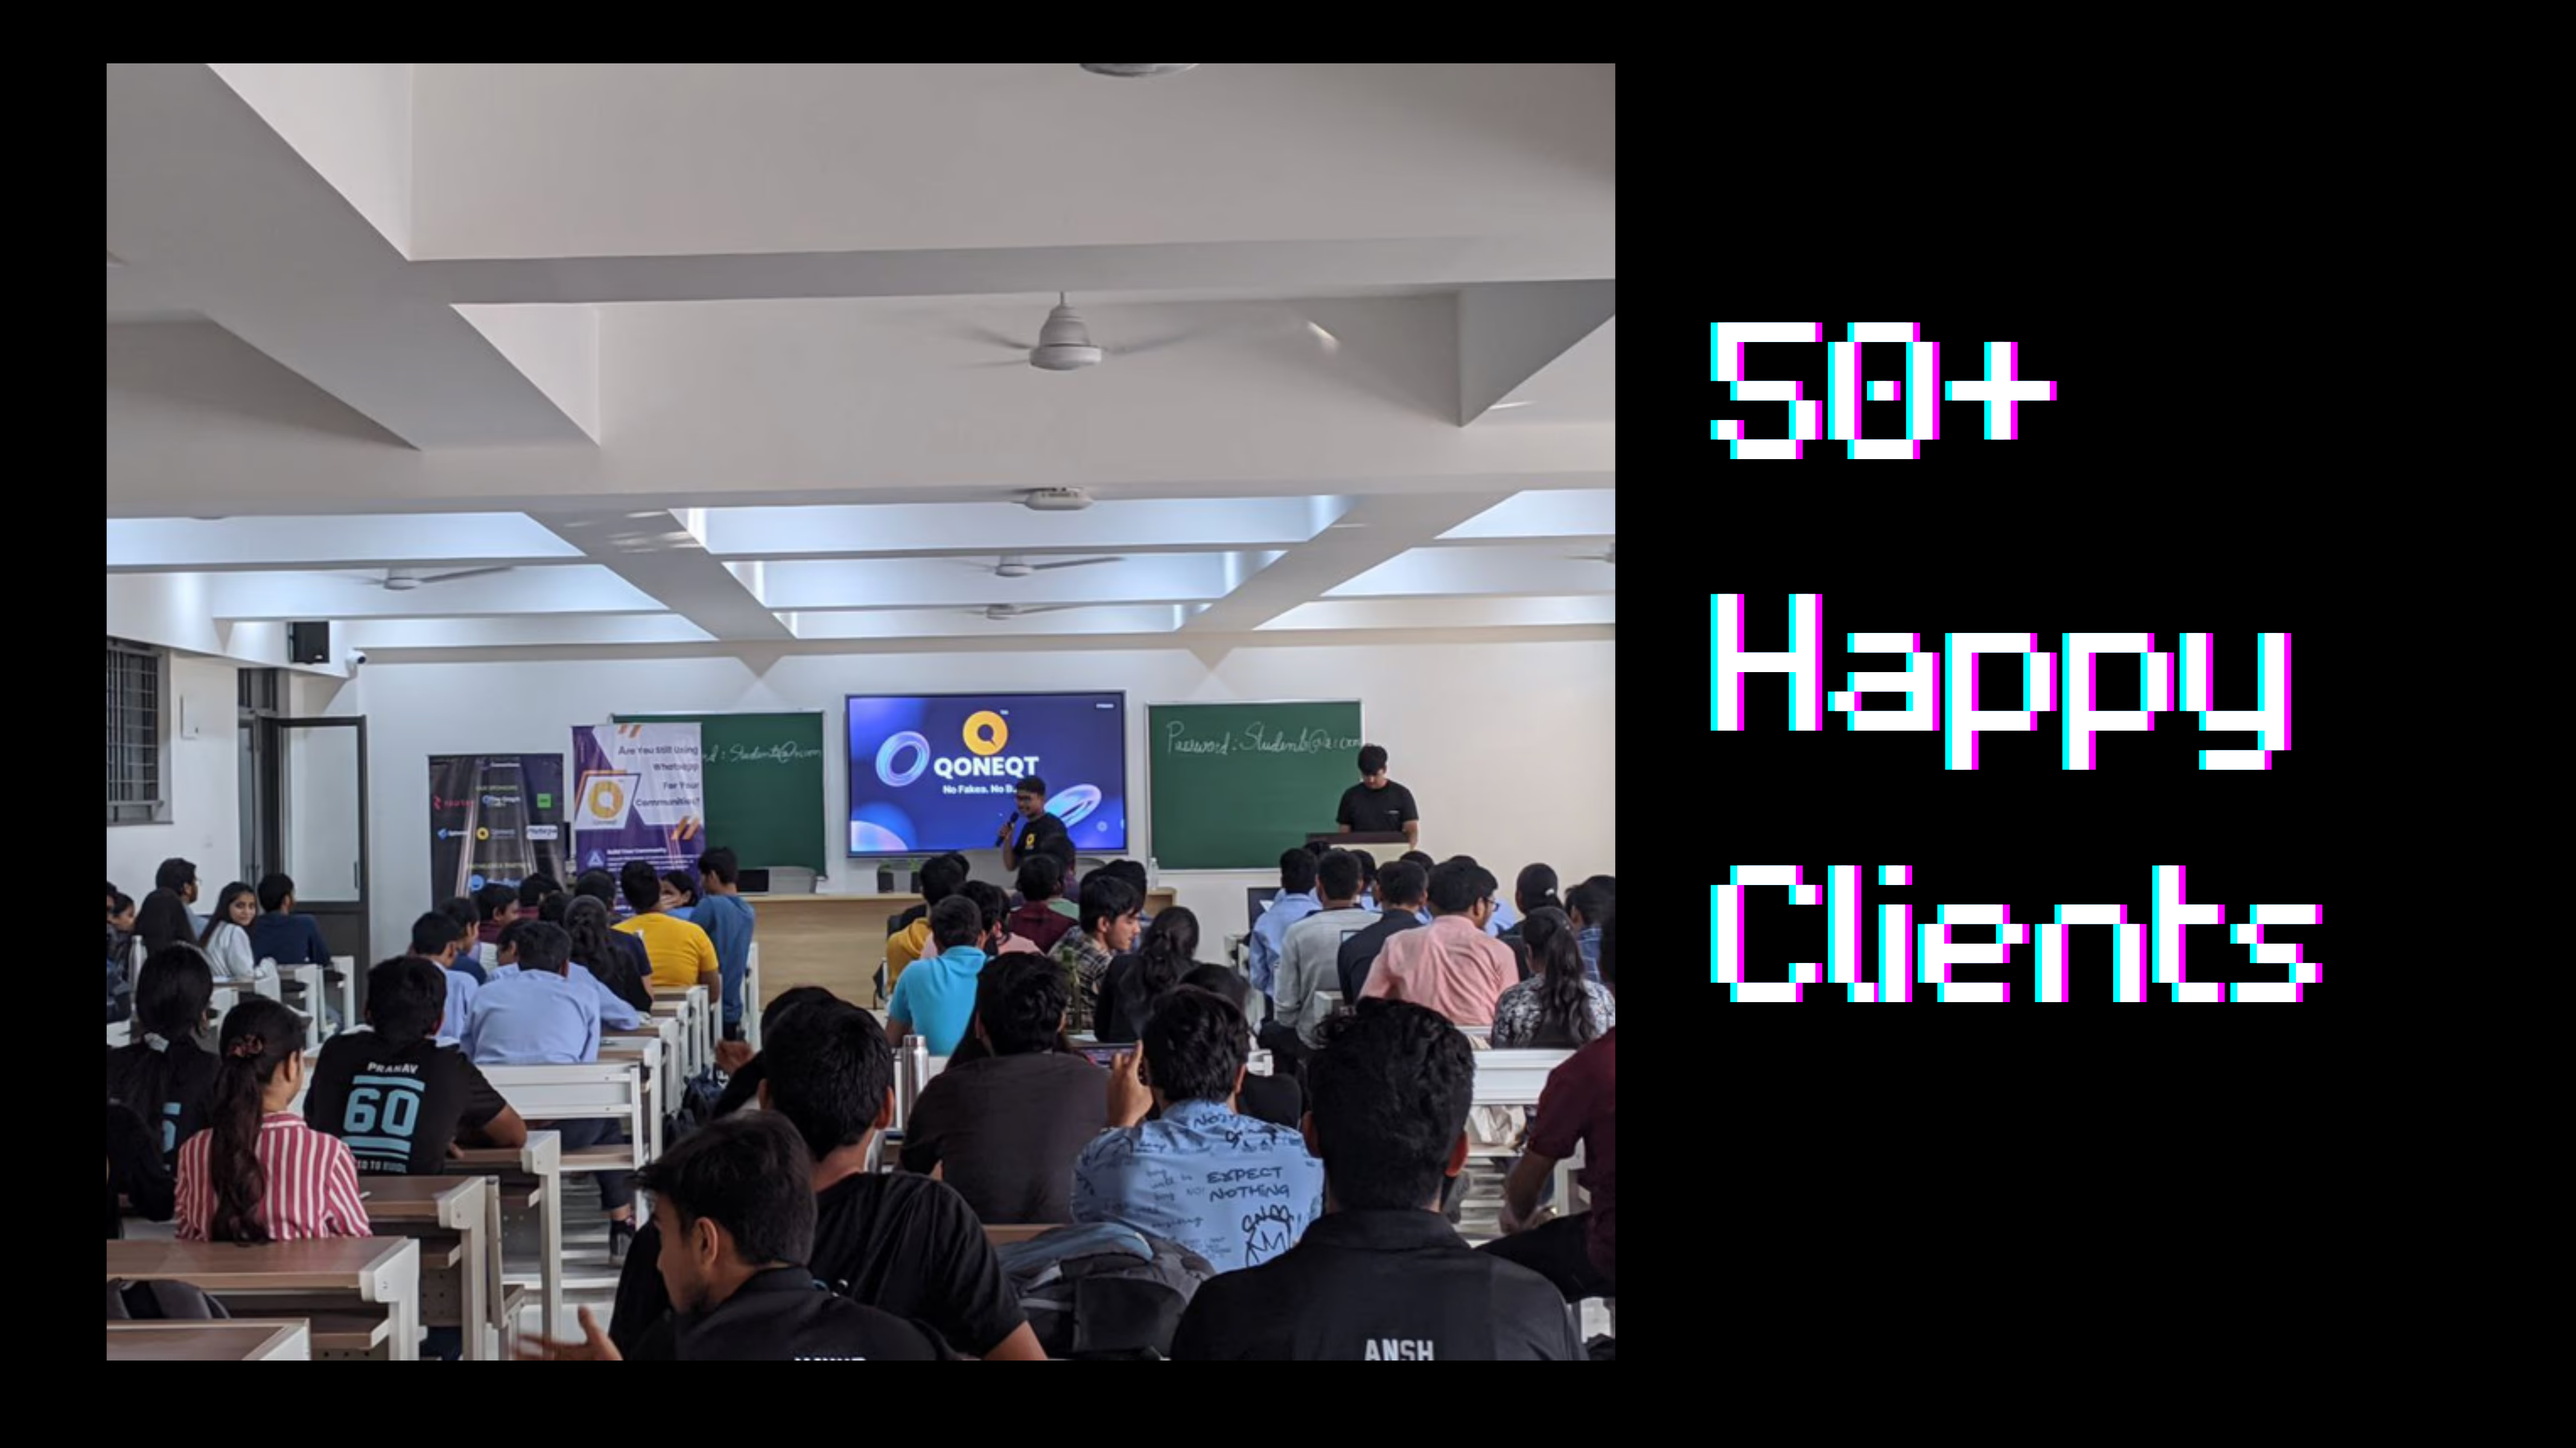
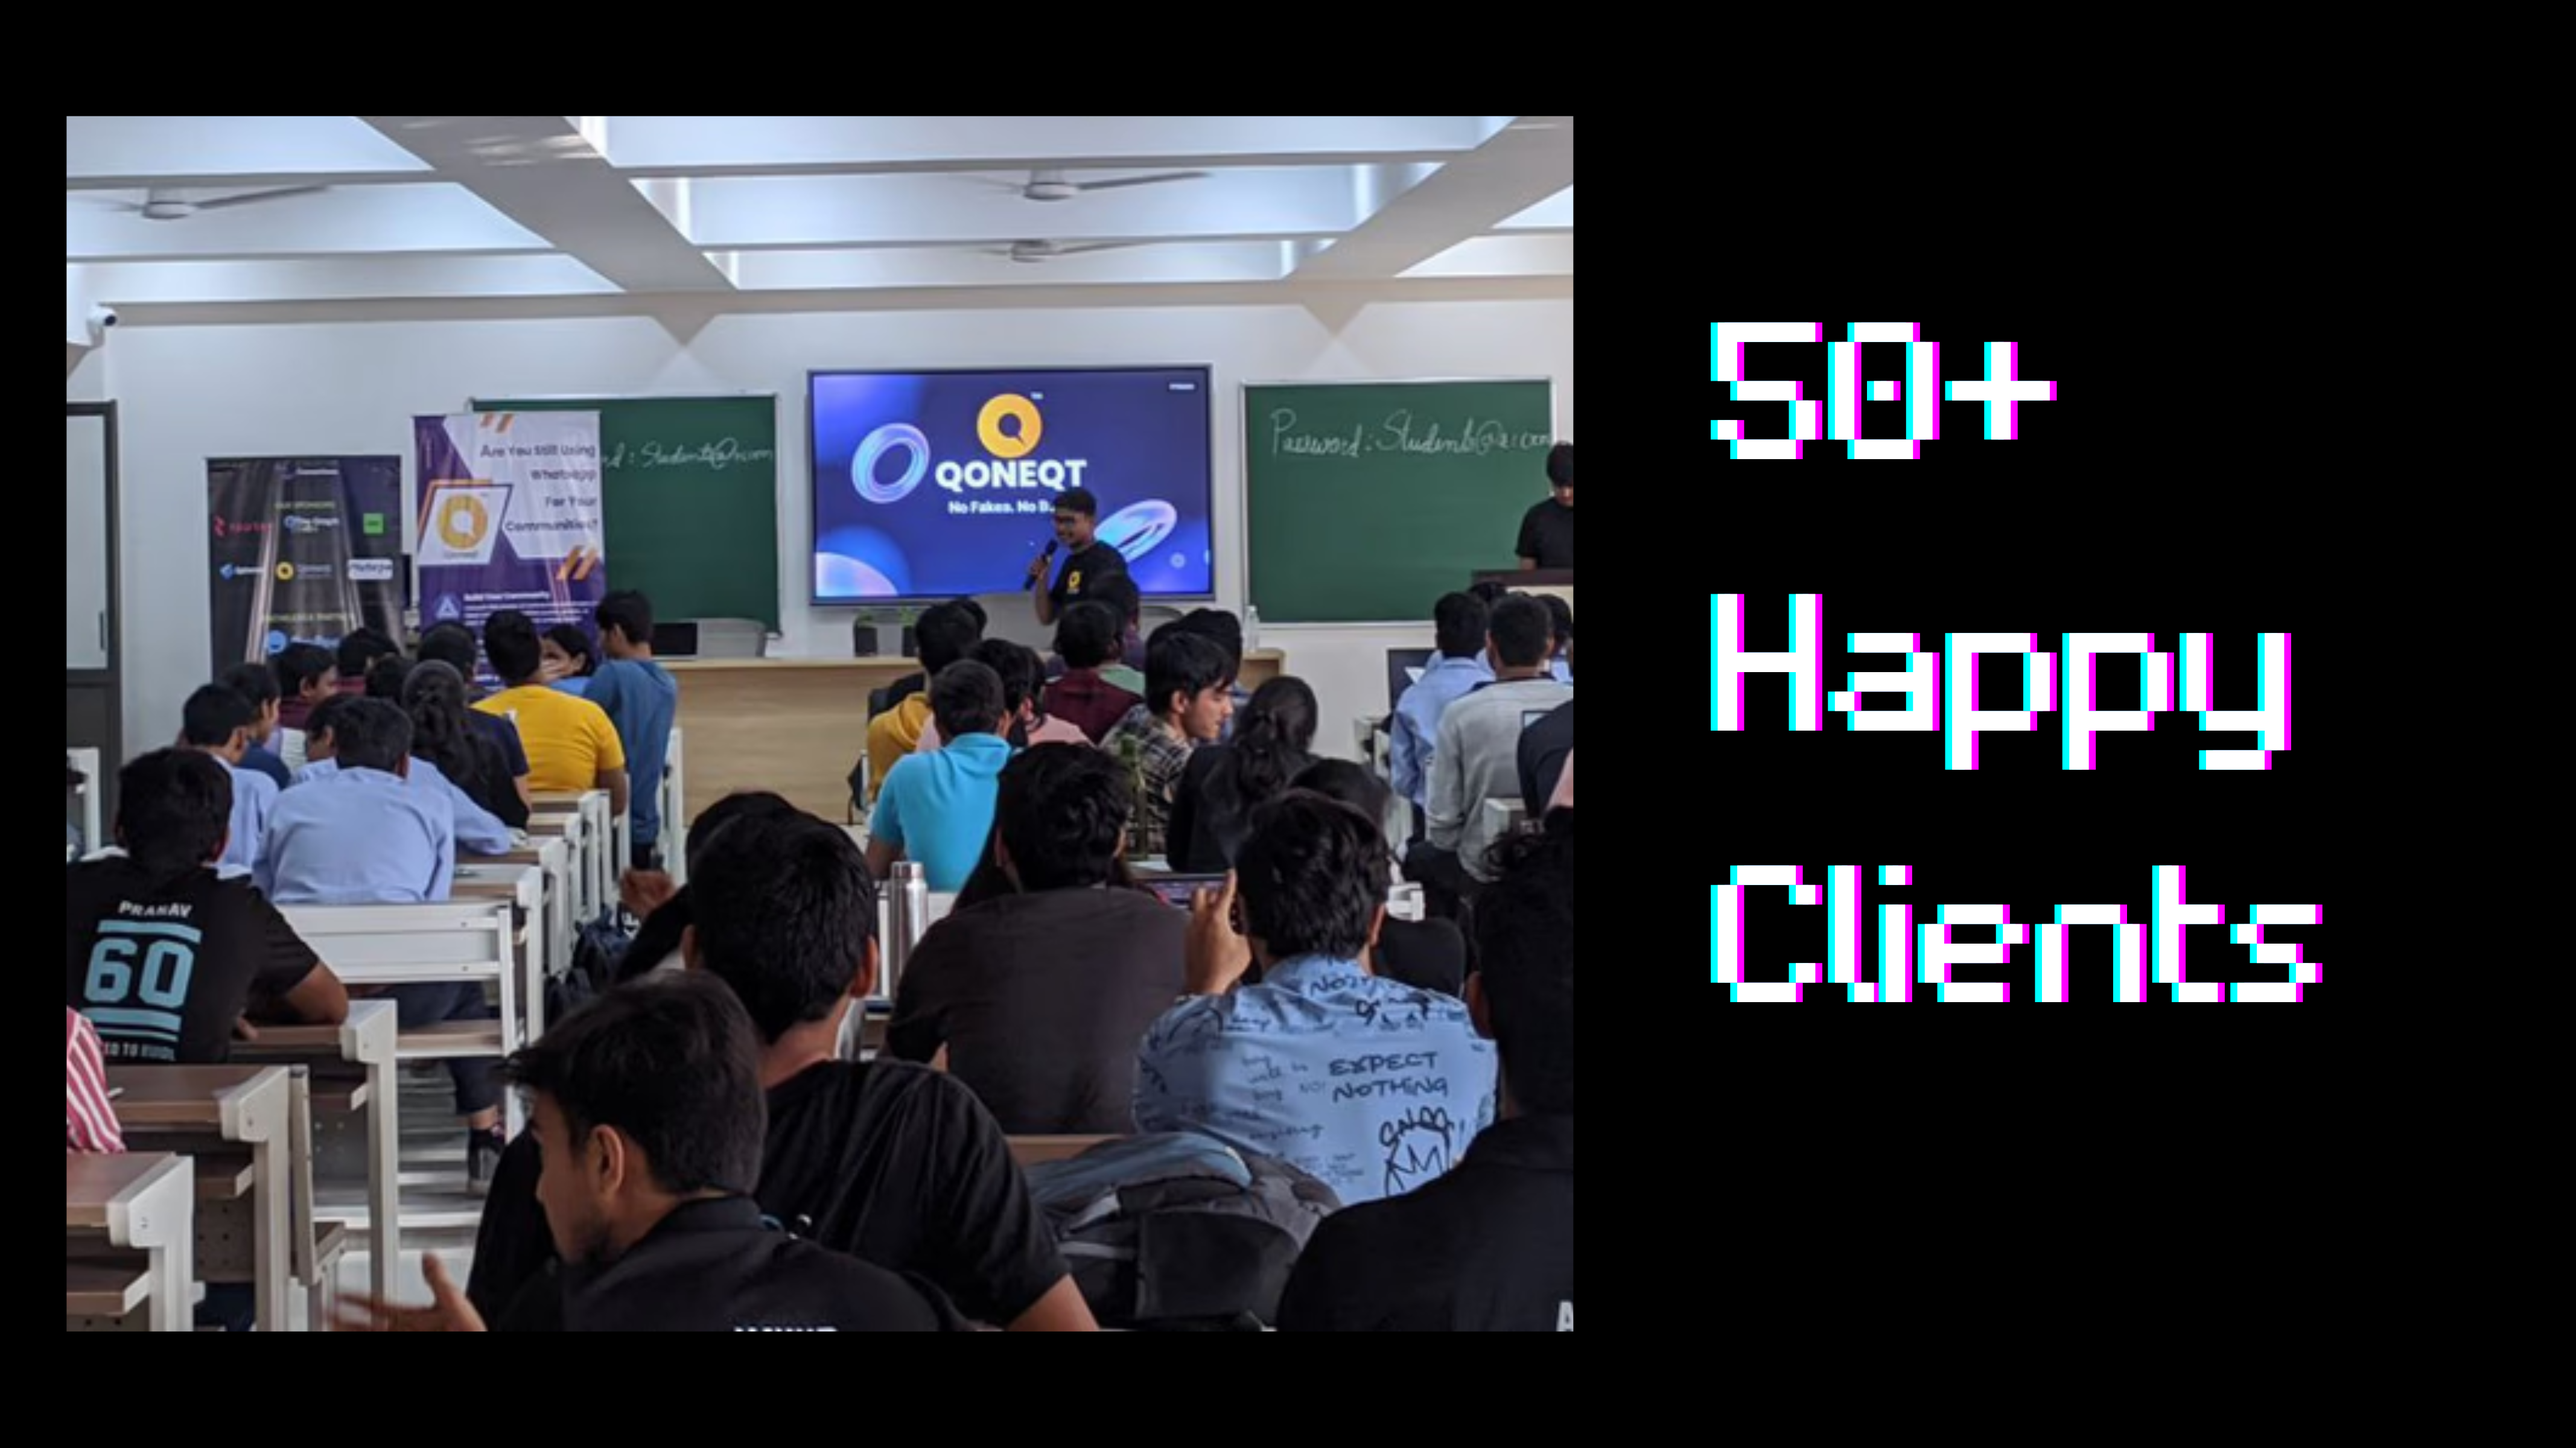
commit

diff --git a/src/Home.js b/src/Home.js
@@ -59,6 +59,9 @@ import Carousal2 from './images/Carousal2.png';
 import Carousal3 from './images/Carousal3.png';
 import team from './images/team.png'
 import testimonials from './images/testimonials.png'
+import p1 from './images/partnership/p1.png'
+import p2 from './images/partnership/p2.png'
+
 
 
 function Home() {
@@ -261,24 +264,17 @@ function Home() {
 <br></br>
 
 
- <br></br><br></br>
- <h2 style={{color:'white'}}> Automate your onboarding process with ConnectVerse</h2>
-<img style={{width:'20em'}} src={ai}></img>
+
 <br></br>
 <div id="about"></div>
 <img src={about} style={{width:'100%'}}></img>
+<br></br>
 
     <a style={{height:'70%'}} href='https://t.me/connectverseweb3'><button style={{ height:'70%'}} class="button-85" role="button">Join Our Community </button></a>
+    <br></br> <br></br>
 <div id="partner"></div>
-    <div className="canva-embed-container">
-      <iframe
-        loading="lazy"
-        src=" https://www.canva.com/design/DAGZLLrG4aI/xebTTAC7d6rrcHL00006LA/view?embed"
-        allowFullScreen
-        allow="fullscreen"
-      ></iframe>
-    </div>
-
+<img src={p1} style={{width:'100%'}}></img>
+<img src={p2} style={{width:'100%'}}></img>
 
 
     <a style={{height:'70%'}} href='https://calendly.com/quantumworld394/30min'><button style={{height:'70%'}} class="button-85" role="button">Partner With Us</button></a>
